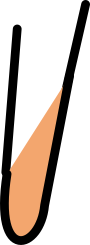
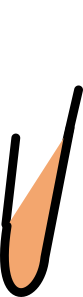
Improve cat look

diff --git a/cat.js b/cat.js
@@ -44,6 +44,7 @@ body.imageOffset = [-50, -30];
 body.imageAngle = Math.PI;
 body.imageScale = 2.3;
 body.setParent(cat);
+body.zIndex = 1;
 
 const backBody = new Bone();
 backBody.setParent(cat);
@@ -59,16 +60,18 @@ backLeg1.setParent(backBody);
 backLeg1.position[0] = 0;
 backLeg1.position[1] = 0;
 backLeg1.image = "./images/leg.png";
-backLeg1.imageOffset = [-30, -40];
+backLeg1.imageOffset = [-50, -50];
 backLeg1.imageAngle = 3 * Math.PI / 2;
 backLeg1.imageScale = 0.6;
+backLeg1.zIndex = 2;
 
 const backLeg1Foot = new Bone();
 backLeg1Foot.setParent(backLeg1);
 backLeg1Foot.image = "./images/paw.png";
-backLeg1Foot.imageOffset = [-20, -40];
+backLeg1Foot.imageOffset = [-40, -40];
 backLeg1Foot.imageAngle = -0.5 * Math.PI;
 backLeg1Foot.imageScale = 0.4;
+backLeg1Foot.zIndex = 2;
 
 
 const backLeg2 = new Bone();
@@ -76,7 +79,7 @@ backLeg2.setParent(backBody);
 backLeg2.position[0] = 0;
 backLeg2.position[1] = 0;
 backLeg2.image = "./images/leg.png";
-backLeg2.imageOffset = [-30, -40];
+backLeg2.imageOffset = [-50, -50];
 backLeg2.imageAngle = 3 * Math.PI / 2;
 backLeg2.imageScale = 0.6;
 
@@ -97,14 +100,15 @@ frontLeg1.image = "./images/leg.png";
 frontLeg1.imageOffset = [00, -20];
 frontLeg1.imageAngle = 3 * Math.PI / 2;
 frontLeg1.imageScale = 0.6;
-
+frontLeg1.zIndex = 2;
 
 const frontLeg1Foot = new Bone();
 frontLeg1Foot.setParent(frontLeg1);
 frontLeg1Foot.image = "./images/paw.png";
-frontLeg1Foot.imageOffset = [-10, -70];
+frontLeg1Foot.imageOffset = [0, -80];
 frontLeg1Foot.imageAngle = -1 / 2 * Math.PI - 0.2;
 frontLeg1Foot.imageScale = 0.4;
+frontLeg1Foot.zIndex = 3;
 
 
 const frontLeg2 = new Bone();
@@ -112,14 +116,14 @@ frontLeg2.angle = -Math.PI / 2;
 frontLeg2.setParent(body);
 frontLeg2.position[1] = 0;
 frontLeg2.image = "./images/leg.png";
-frontLeg2.imageOffset = [00, -20];
+frontLeg2.imageOffset = [0, -20];
 frontLeg2.imageAngle = 3 * Math.PI / 2;
 frontLeg2.imageScale = 0.6;
 
 const frontLeg2Foot = new Bone();
 frontLeg2Foot.setParent(frontLeg2);
 frontLeg2Foot.image = "./images/paw.png";
-frontLeg2Foot.imageOffset = [-10, -70];
+frontLeg2Foot.imageOffset = [0, -80];
 frontLeg2Foot.imageAngle = -1 / 2 * Math.PI - 0.2;
 frontLeg2Foot.imageScale = 0.4;
 
@@ -131,8 +135,9 @@ head.imageAngle = -1.0 + Math.PI;
 head.imageScale = 1.5;
 head.setParent(body);
 head.len = 80;
-head.minAngle = -2;
+head.minAngle = -1;
 head.maxAngle = 2;
+head.zIndex = 2;
 
 let jump = false;
 
@@ -171,7 +176,6 @@ tail2.imageAngle = Math.PI/2;
 tail2.imageScale = 0.5;
 
 
-
 const tail3 = new Bone();
 tail3.setParent(tail2);
 tail3.position[0] = 0;
@@ -182,7 +186,6 @@ tail3.image = "./images/tail.png";
 tail3.imageOffset = [-20, -60];
 tail3.imageAngle = Math.PI/2;
 tail3.imageScale = 0.5;
-
 
 
 bones.forEach(b => b.saveRelaxedState());
@@ -353,7 +356,7 @@ function update() {
     tail3.angle = 0.2 * Math.cos(performance.now() * 0.002 + 2.0) * Math.cos(performance.now() * 0.0001);
 
 
-    bones.forEach(b => b.draw());
+    bones.sort((a, b) => a.zIndex - b.zIndex).forEach(b => b.draw());
 
     // ctx.beginPath();
     // ctx.arc(mouse[0], mouse[1], 5, 0, Math.PI * 2);

diff --git a/bone.js b/bone.js
@@ -1,4 +1,4 @@
-const DRAW_GIZMOS = false;
+const DRAW_GIZMOS = document.location.search.includes("gizmos");
 
 
 class Bone {
@@ -16,6 +16,7 @@ class Bone {
     imageOffset = [0, 0];
     imageAngle = 0;
     imageScale = 1;
+    zIndex = 0;
 
     state = [];
     relaxedState = null;
